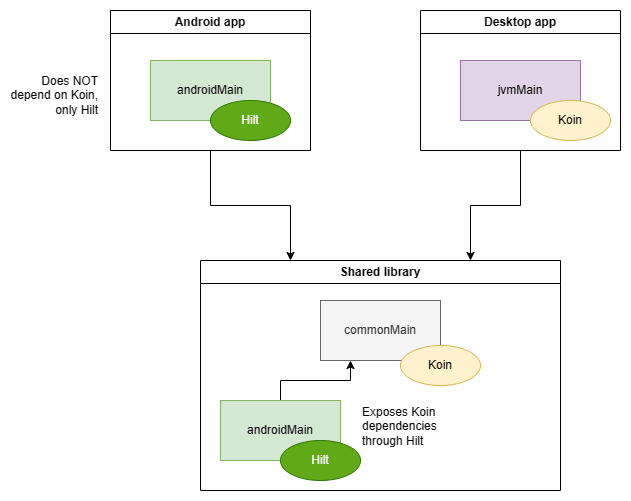
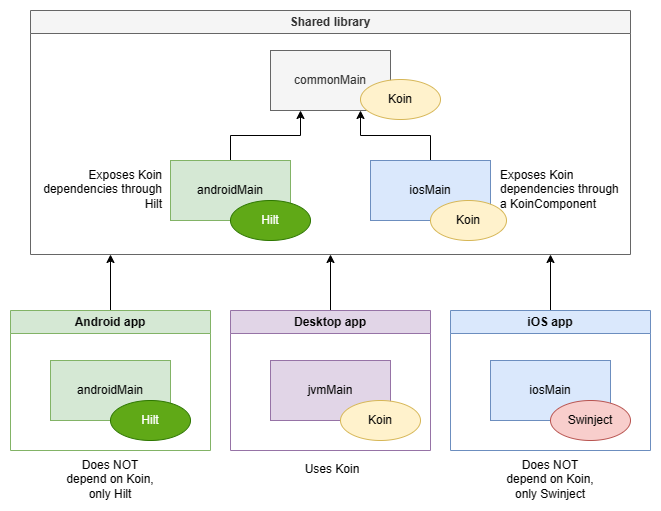
Update docs

diff --git a/README.md b/README.md
@@ -1,9 +1,13 @@
 # KMP-shared-DI
 
-Demonstrates mixing DI frameworks in Kotlin Multiplatform (KMP). This project uses Koin
-in the shared code, but exposes it in the `androidMain` source set as a Hilt module. This allows
-consumers on Android to inject the shared code in Hilt, without being forced to switch or even
-depend on the DI framework the shared code is using.
+Demonstrates mixing DI frameworks in a Kotlin Multiplatform (KMP) project: Koin, Dagger/Hilt and Swinject.
+
+It uses Koin in the shared code, which is directly reused in the [desktop] sample. It exposes the dependencies in
+the `androidMain` source set as a Hilt module for the [android] sample, so the Android app does
+not have a dependency on Koin and can keep using Hilt and is not forced to switch DI framework.
+The same goes for the [ios] sample, albeit a bit differently setup: the shared dependencies are
+exposed through a `KoinComponent` in the `iosMain` source set, and the iOS app accesses those to
+put them into the Swinject container.
 
 ## Architecture
 
@@ -16,3 +20,7 @@ depend on the DI framework the shared code is using.
 
 #### Desktop
 Click the ▶ icon next to `fun main()` in `desktop/src/jvmMain/kotlin/Main.kt`.
+
+#### iOS
+Open the project in XCode and run it. It's pre-configured to first build the shared code
+(see https://kotlinlang.org/docs/multiplatform-mobile-integrate-in-existing-app.html for instructions).
